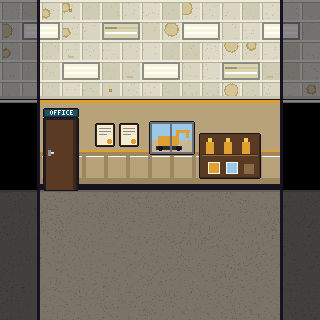
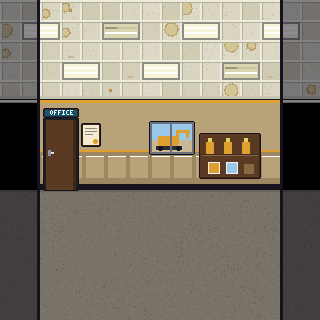
Trailer office: hard-hat board clear of the OFFICE door (set rebuilt); t2 mixed-play band widened (seed flake)
Claude-Session: https://claude.ai/code/session_01EmCt86fEXnPw3giyK94Bzf

Changed region(s): [[0.25, 0.375, 0.4375, 0.4688]]

diff --git a/docs/BACKLOG.md b/docs/BACKLOG.md
@@ -78,7 +78,7 @@ Method: the game run in a real window (godot-runtime MCP, Free Play, tier HARD, 
 Findings (severity: H = blocks play, M = visible defect, L = polish):
 1. M, FIXED: Nerf war HUD line at 180x320 (v) ran off the screen and collided with the clock: "DARTS 3  Z FIRE (HOLD = FAR)  G AWAY  WAR 18  LIVES 2" is ~230 px; the "LIVES" (the elimination mode's only on-screen counter) was cut off. Repro: Free Play, `Nerf.start_war("elim")` with the blaster held, `-- --format=v`. Fix: below 260 px width the war status (`WAR n  LIVES n`) is its own line (`hud.gd`, `make_godot.py`).
 2. L, FIXED: the `stage.gd:125` errors are real but harmless: `Stage._process` ran with `_player` / `_cam` still null for a frame when `Game.title_mode` went false while the title's own stage was still showing (the title's `_start` and `campaign_shots.gd` both do this; the title stage frees the Player). Repro: `godot --path godot --fixed-fps 60 -s res://tests/campaign_shots.gd -- --format=h`. Fix: `_process` returns when `_player == null or _cam == null`. After the fix the shot test logs no errors.
-3. M, OPEN (needs a regenerated background PNG, `tools/client_sets.lua` line 693): the hard-hat board of the Iron Mule trailer office (`site_trailer_office_a/b`, `Hats` at x 24) overlaps the right half of the OFFICE door. Repro: Free Play, `Game.go("site_trailer_office_a", "start")`. Fix: move the board to free wall (right of the window, x about 200) and rebuild the set.
+3. M, FIXED (the board now hangs at x 64 next to one diploma at x 42, the second diploma is gone in the trailer office; set rebuilt with ONLY, props JSON and scenes updated, checked in a screenshot). Was: (needed a regenerated background PNG, `tools/client_sets.lua` line 693): the hard-hat board of the Iron Mule trailer office (`site_trailer_office_a/b`, `Hats` at x 24) overlaps the right half of the OFFICE door. Repro: Free Play, `Game.go("site_trailer_office_a", "start")`. Fix: move the board to free wall (right of the window, x about 200) and rebuild the set.
 4. L, OPEN: the six closet scenes (`site_*_closet_a/b`) are the same rack, board and cabinet; only the stripe colour differs, so 12 closets look like one room. Low priority polish.
 5. L, OPEN: in the site lobbies and offices the client staff stand in front of the reception desk / owner's desk and cover the desk plate ("& HOLLER", "NORTHLIGHT") and the exec chair. Their spawn x could move 12 px left or right of the plate; not blocking.
 6. L, OPEN: karaoke HARD charts have simultaneous two-arrow notes (10 of 44 in FAST RAP HOT MESS) with a 0.20 s good window and 0.34 s between notes, and the room mood drains 6 per miss from 50, so doing nothing ends the song in about 3 s. Playable for a skilled player, but there is no warning that a double needs both keys; the intro text could say so. Not changed (balance call).
